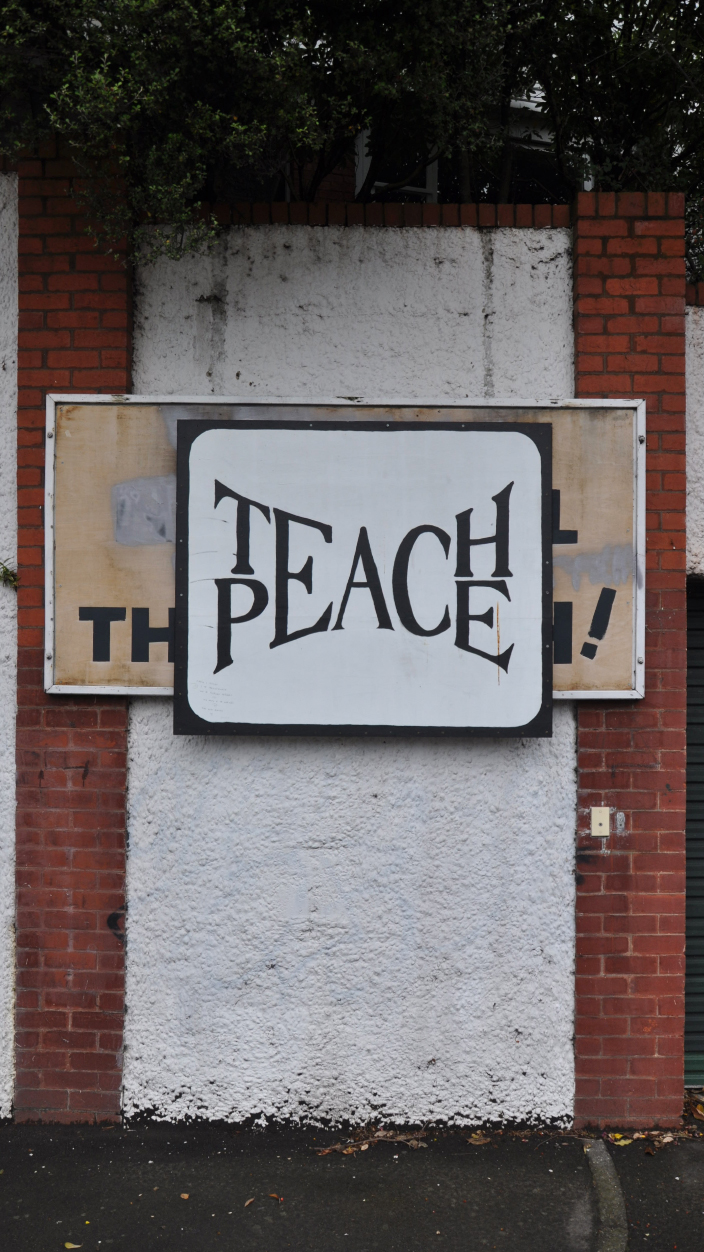
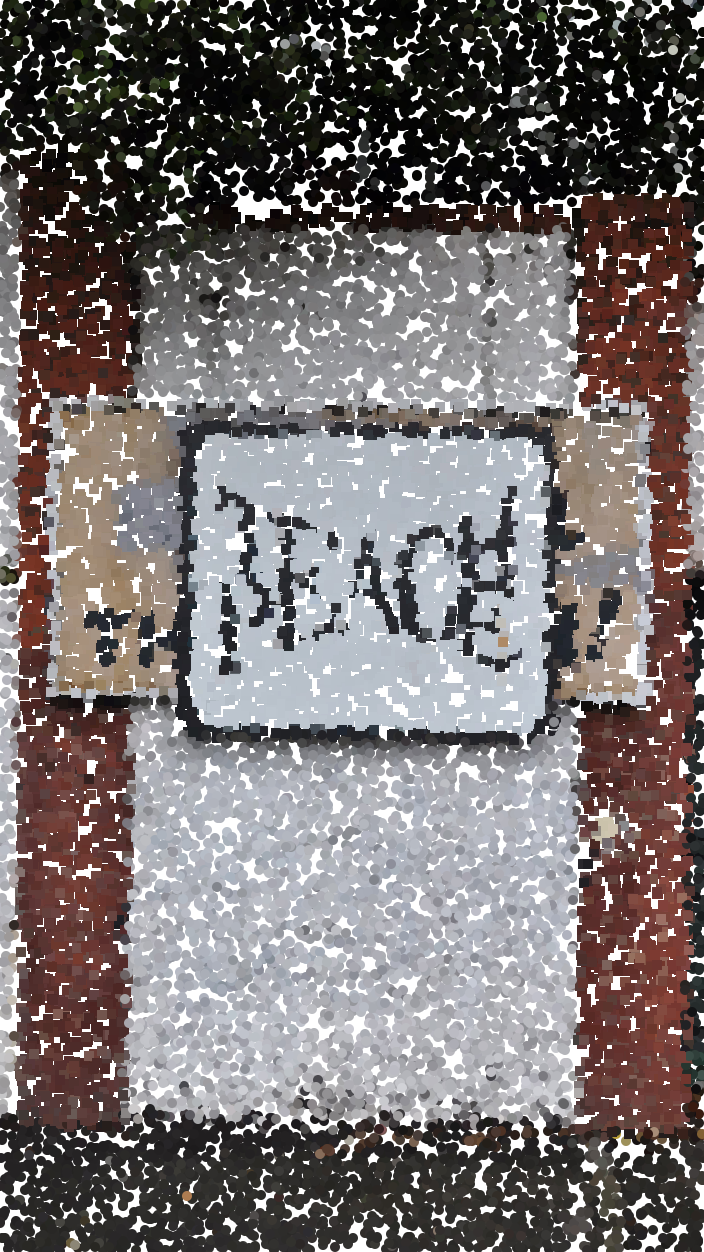
Update 2
Selected and coded 3 images.

Changed region(s): [[0.0, 0.0, 1.0, 1.0]]

diff --git a/sketch.js b/sketch.js
@@ -2,9 +2,9 @@ let sourceImg=null;
 let maskImg=null;
 let renderCounter=0;
 
-let sourceFile = "input_2.jpg";
-let maskFile   = "mask_2.png";
-let outputFile = "artwork_2.png";
+let sourceFile = "input_1.jpg";
+let maskFile   = "mask_1.png";
+let outputFile = "artwork_1.png";
 
 function preload() {
   sourceImg = loadImage(sourceFile);
@@ -28,7 +28,7 @@ function draw () {
     let y = floor(random(sourceImg.height));
     let pix = sourceImg.get(x, y);
     let mask = maskImg.get(x, y);
-    let pointSize = 5;
+    let pointSize = 10;
     let halfSize = 5;
     fill(pix);
     if(mask[0] > 128) {
@@ -43,7 +43,7 @@ function draw () {
     console.log("Done!")
     noLoop();
     // uncomment this to save the result
-    // saveArtworkImage(outputFile);
+    saveArtworkImage(outputFile);
   }
 }
 

diff --git a/README.md b/README.md
@@ -1,17 +1,24 @@
 ## Creative Coding 2: Custom Pixel
 
-Update 1
+Update 2
 
 I selected my images, moving away from portraits and choosing 3 shots which had a similar structure. All 3 presenting narrative through text, 
 
-1) A photo of students illustrations explaining themselves on the wall of their since deserted preschool in Te Aro, Wellington
+Firstly I wanted to add some further context, and reasoning to my image selection.
 
-2) A photo of a tagged wall, showing a similar form of self expression but this kind illegal and presumably done by a teenager/young adult.
+
+1) A photo of students illustrations explaining themselves on the wall of their since deserted preschool in Te Aro, Wellington 
+
+EDIT: The colours are bright, varied, unrelated, and vibrate highlighting the free, youthful, uneducated nature of children (Red, Orange, Blue, Pink, Green, Purple, and an array of shades). However the main addition is the narrative of what was choosen to be painted, it's self centred. Children not having the knowledge or ability to articulate themselves and their self expression beyond painting their own names, and a number of physical items and brands they like and assosicate with.
+
+2) A photo of a tagged wall, showing a similar form of self expression but this kind illegal and presumably done by a teenager/young adult. 
+
+EDIT: The colours remain vibrant but are singular, more deliberate and restrained (Fluoro Green). In addition the environment gives further context for who executed the work a motorbike being directly next door the the painting. An object synonymous with rebellion, youth, danger as is the medium, still paint, but spray paint. Finally what was choosen to be painted as also grown, it's still self centred but has expanded. The painter turning themselves into a character, given themself a name like a brand, and also using how they wrote this name as the work itself. This showing a development of the self and expansion in technique and narrative. Workplace wall in Mt Victoria, Wellington.
 
 3) A photo of a hand painted, strong typographic sign which has been hung over another hand painted sign. The message here reads 'Teach Peace', and due to this message and strong design I interpreted it as an adult's work. 
 
-As a result I have 3 images with links through message, structure, and focus. Each tells a story when displayed after one another starting of with a child's dialouge, then a teenager's, then an adult's.
+EDIT: The colours are now muted, elegant, reserved, classic (Black & White). They highlight the development of character that typically happens in adulthood. They also reiterate a greater development of skill and technique using typography opposed to bright colours (which can be overly showy and distracting) to communicate a message. Finally what was choosen to be painted has grown even further, the painter deciding to communicate the self through a narrative and message that they care about. Rather than focusing on their immidate self. House wall in Kelburn, Wellington.
 
-I'm very happy with my masks, however I will edit further so painted elements are highlighted stronger. 
+I edited the code very slightly so the rectangle and circle were smaller.
 
-I have barely begun editing the code, and had errors updating the artwork_2 and artwork_3.
+I solved the error and successfully updating the artwork_2 and artwork_3.
